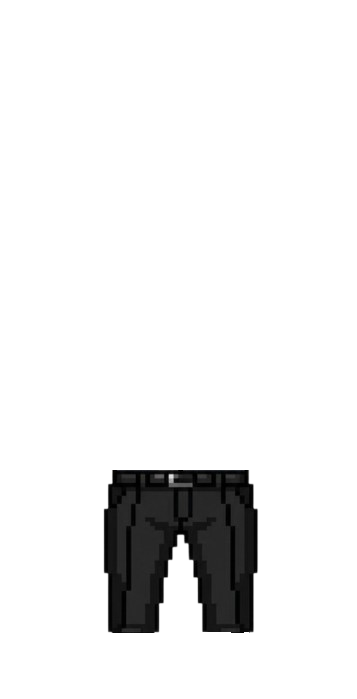
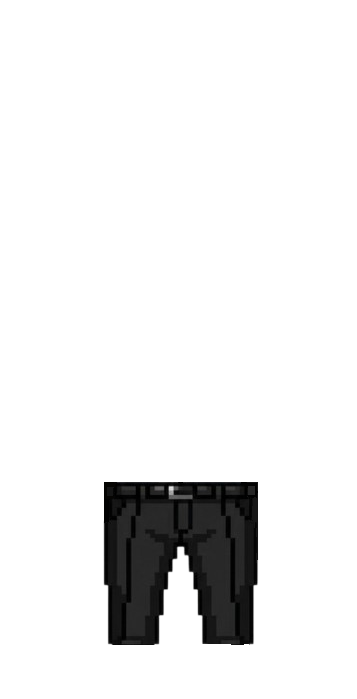
fix: 에셋 추가

diff --git a/app/frontend/src/screens/child/home/AvatarCustomScreen.jsx b/app/frontend/src/screens/child/home/AvatarCustomScreen.jsx
@@ -1,9 +1,10 @@
 import React, { useContext, useState } from 'react';
 import { View, StyleSheet, TouchableOpacity, ScrollView, Image, Dimensions, Alert } from 'react-native';
 import { AvatarContext } from '../../../components/child/avatar/AvatarContext';
-import { AVATAR_ITEMS } from '../../../components/child/avatar/AvatarAssets';
+import { AVATAR_ITEMS, AVATAR_ASSETS } from '../../../components/child/avatar/AvatarAssets';
 import ChildAvatar from '../../../components/child/avatar/ChildAvatar';
-import FacePaintingModal from '../../../components/child/modals/FacePaintingModal';
+import Pet from '../../../components/child/avatar/Pet';
+import { scale, verticalScale } from 'react-native-size-matters';
 import CustomText from '../../../components/common/CustomText';
 import api from '../../../api/axios';
 
@@ -23,9 +24,8 @@ const CATEGORIES = [
 const { width } = Dimensions.get('window');
 
 const AvatarCustomScreen = ({ navigation }) => {
-    const { equipState, updateEquip, setEquipState, facePaintPaths, setFacePaintPaths } = useContext(AvatarContext);
+    const { equipState, updateEquip, setEquipState } = useContext(AvatarContext);
     const [selectedCategory, setSelectedCategory] = useState('hair');
-    const [isFacePaintingModalVisible, setFacePaintingModalVisible] = useState(false);
     const [ownedItemIds, setOwnedItemIds] = useState({});
     const [frontendToUuidMap, setFrontendToUuidMap] = useState({});
     const [userLevel, setUserLevel] = useState(1);
@@ -162,13 +162,13 @@ const AvatarCustomScreen = ({ navigation }) => {
                     // 백엔드에 아바타 장착 옷차림 저장
                     try {
                         const equippedUUIDs = [];
-                        if (equipState.hat && frontendToUuidMap[equipState.hat]) equippedUUIDs.push(frontendToUuidMap[equipState.hat]);
-                        if (equipState.upper && frontendToUuidMap[equipState.upper]) equippedUUIDs.push(frontendToUuidMap[equipState.upper]);
-                        if (equipState.lower && frontendToUuidMap[equipState.lower]) equippedUUIDs.push(frontendToUuidMap[equipState.lower]);
+                        ['hat', 'upper', 'lower', 'shoe', 'back', 'outfit', 'pet'].forEach(cat => {
+                            if (equipState[cat] && equipState[cat] !== 'none' && frontendToUuidMap[equipState[cat]]) {
+                                equippedUUIDs.push(frontendToUuidMap[equipState[cat]]);
+                            }
+                        });
 
-                        if (equippedUUIDs.length >= 0) {
-                            await api.patch('/avatars/me/equipment', { equippedItemIds: equippedUUIDs });
-                        }
+                        await api.patch('/avatars/me/equipment', { equippedItemIds: equippedUUIDs });
                     } catch (e) { console.error('Avatar Save Error', e); }
                     navigation.goBack();
                 }}>
@@ -185,27 +185,11 @@ const AvatarCustomScreen = ({ navigation }) => {
 
                     {/* 꾸미기 전용 펫 미리보기 */}
                     {equipState.pet && equipState.pet !== 'none' && (
-                        <View style={{ position: 'absolute', right: 0, bottom: -10, width: 120, height: 120 }} pointerEvents="none">
-                            {AVATAR_ASSETS.pet[equipState.pet]?.leg && <Image source={AVATAR_ASSETS.pet[equipState.pet].leg} style={{ position: 'absolute', width: '100%', height: '100%' }} resizeMode="contain" />}
-                            {AVATAR_ASSETS.pet[equipState.pet]?.body && <Image source={AVATAR_ASSETS.pet[equipState.pet].body} style={{ position: 'absolute', width: '100%', height: '100%' }} resizeMode="contain" />}
-                            {AVATAR_ASSETS.pet[equipState.pet]?.base && <Image source={AVATAR_ASSETS.pet[equipState.pet].base} style={{ position: 'absolute', width: '100%', height: '100%' }} resizeMode="contain" />}
+                        <View style={{ position: 'absolute', right: scale(-210), bottom: verticalScale(-155) }} pointerEvents="none">
+                            <Pet petType={equipState.pet} size={scale(400)} />
                         </View>
                     )}
                 </View>
-
-                <TouchableOpacity
-                    style={styles.paintLaunchButton}
-                    onPress={() => setFacePaintingModalVisible(true)}
-                >
-                    <CustomText style={styles.paintLaunchIcon}>🎨</CustomText>
-                    <CustomText style={styles.paintLaunchText}>페이스 페인팅</CustomText>
-                </TouchableOpacity>
-                <TouchableOpacity
-                    style={styles.paintClearButton}
-                    onPress={() => setFacePaintPaths([])}
-                >
-                    <CustomText style={styles.paintLaunchText}>초기화 🗑</CustomText>
-                </TouchableOpacity>
             </View>
 
             {/* 인벤토리 영역 */}
@@ -235,15 +219,6 @@ const AvatarCustomScreen = ({ navigation }) => {
                     {renderItemGrid()}
                 </View>
             </View>
-
-            {/* 페이스 페인팅 모달 */}
-            <FacePaintingModal
-                visible={isFacePaintingModalVisible}
-                onClose={() => setFacePaintingModalVisible(false)}
-                onSave={(paths) => setFacePaintPaths(paths)}
-                initialPaths={facePaintPaths}
-                equipState={equipState}
-            />
         </View>
     );
 };

diff --git a/app/frontend/src/components/child/avatar/ChildAvatar.jsx b/app/frontend/src/components/child/avatar/ChildAvatar.jsx
@@ -74,31 +74,14 @@ const ChildAvatar = ({
 
     const renderDefaultAvatar = () => (
         <View style={[styles.canvasContainer, { width: responsiveSize, height: responsiveSize }]}>
-            {/* 1. 호흡 시 날개도 상체 따라 움직이기 (등 장식 & 장식품) */}
+            {/* 1. 호흡 시 날개도 상체 따라 움직이기 (자율 등 장식 - 바보는 제외) */}
             <View style={[styles.layer, { transform: [{ translateY: bodyOffsetY }] }]}>
-                {equipState.back !== 'none' && AVATAR_ASSETS.decoration[equipState.back] && (
+                {equipState.back !== 'none' && equipState.back !== 'babo' && AVATAR_ASSETS.decoration[equipState.back] && (
                     <Image source={AVATAR_ASSETS.decoration[equipState.back]} style={styles.layer} />
                 )}
             </View>
 
-            {/* 하체 고정 */}
-            <Image source={AVATAR_ASSETS.body.lower_base} style={styles.layer} />
-
-            {/* 하의 장착 (한벌옷이 있으면 한벌옷 하의 우선 렌더링) */}
-            {equipState.outfit && equipState.outfit !== 'none' && AVATAR_ASSETS.outfit[equipState.outfit] ? (
-                <Image source={AVATAR_ASSETS.outfit[equipState.outfit].lower} style={styles.layer} />
-            ) : (
-                equipState.lower !== 'none' && AVATAR_ASSETS.lower[equipState.lower] && (
-                    <Image source={AVATAR_ASSETS.lower[equipState.lower]} style={styles.layer} />
-                )
-            )}
-
-            {/* 신발 장착 */}
-            {equipState.shoe !== 'none' && AVATAR_ASSETS.shoe[equipState.shoe] && (
-                <Image source={AVATAR_ASSETS.shoe[equipState.shoe]} style={styles.layer} />
-            )}
-
-            {/* 3. 상체 이동 */}
+            {/* 3. 상체 이동 (상의가 하의 밑에 깔리도록 먼저 렌더링) */}
             <View style={[styles.layer, { transform: [{ translateY: bodyOffsetY }] }]}>
                 <Image source={AVATAR_ASSETS.body.upper_base} style={styles.layer} />
 
@@ -112,10 +95,32 @@ const ChildAvatar = ({
                 )}
             </View>
 
+            {/* 하체 고정 (상의 위에 렌더링되도록 뒤로 배치) */}
+            <Image source={AVATAR_ASSETS.body.lower_base} style={styles.layer} />
+
+            {/* 하의 장착 (한벌옷이 있으면 한벌옷 하의 우선 렌더링) */}
+            {equipState.outfit && equipState.outfit !== 'none' && AVATAR_ASSETS.outfit[equipState.outfit] ? (
+                <Image source={AVATAR_ASSETS.outfit[equipState.outfit].lower} style={styles.layer} />
+            ) : (
+                equipState.lower !== 'none' && AVATAR_ASSETS.lower[equipState.lower] && (
+                    <Image source={AVATAR_ASSETS.lower[equipState.lower]} style={styles.layer} />
+                )
+            )}
+
+            {/* 신발 장착 (한벌옷이 있으면 한벌옷 신발 우선 렌더링) */}
+            {equipState.outfit && equipState.outfit !== 'none' && AVATAR_ASSETS.outfit[equipState.outfit] && AVATAR_ASSETS.outfit[equipState.outfit].shoe ? (
+                <Image source={AVATAR_ASSETS.outfit[equipState.outfit].shoe} style={styles.layer} />
+            ) : (
+                equipState.shoe !== 'none' && AVATAR_ASSETS.shoe[equipState.shoe] && (
+                    <Image source={AVATAR_ASSETS.shoe[equipState.shoe]} style={styles.layer} />
+                )
+            )}
+
+
             {/* 4. 얼굴 */}
             {renderFace()}
 
-            {/* 5. 헤어 및 모자 -> 모자 장착 시 헤어 X */}
+            {/* 5. 헤어 및 모자 -> 모자 장착 시 다시 헤어 가리기 (User Request) */}
             <View style={[styles.layer, { transform: [{ translateY: faceOffsetY }] }]}>
                 {equipState.hair !== 'none' && equipState.hat === 'none' && AVATAR_ASSETS.hair[equipState.hair] && (
                     <Image source={AVATAR_ASSETS.hair[equipState.hair]} style={styles.layer} />
@@ -124,6 +129,13 @@ const ChildAvatar = ({
                     <Image source={AVATAR_ASSETS.hat[equipState.hat]} style={styles.layer} />
                 )}
             </View>
+
+            {/* 6. 바보 딱지 (상체에 바짝 붙은 가장 앞 레이어) */}
+            {equipState.back === 'babo' && AVATAR_ASSETS.decoration.babo && (
+                <View style={[styles.layer, { transform: [{ translateY: bodyOffsetY }] }]}>
+                    <Image source={AVATAR_ASSETS.decoration.babo} style={styles.layer} />
+                </View>
+            )}
         </View>
     );
 

diff --git a/app/frontend/src/screens/child/home/ChildHomeScreen.jsx b/app/frontend/src/screens/child/home/ChildHomeScreen.jsx
@@ -64,9 +64,15 @@ const ChildHomeScreen = ({ navigation }) => {
                             if (eq.category === 'HAT') frontendCat = 'hat';
                             else if (eq.category === 'TOP') frontendCat = 'upper';
                             else if (eq.category === 'BOTTOM') frontendCat = 'lower';
+                            else if (eq.category === 'SHOE') frontendCat = 'shoe';
+                            else if (eq.category === 'BACK' || eq.category === 'ACC' || eq.category === 'DECORATION') frontendCat = 'back';
+                            else if (eq.category === 'OUTFIT') frontendCat = 'outfit';
+                            else if (eq.category === 'PET') frontendCat = 'pet';
 
                             if (frontendCat) {
-                                const assetItem = AVATAR_ITEMS[frontendCat]?.find(a => a.name === dictItem.name);
+                                // back, pet, outfit 등 명칭 불일치 대응
+                                const assetList = AVATAR_ITEMS[frontendCat] || AVATAR_ITEMS.decoration || AVATAR_ITEMS.pet || [];
+                                const assetItem = assetList.find(a => a.name === dictItem.name);
                                 if (assetItem) {
                                     if (!newEquip) newEquip = { ...equipState };
                                     newEquip[frontendCat] = assetItem.id;
@@ -114,6 +120,7 @@ const ChildHomeScreen = ({ navigation }) => {
                 <ImageBackground
                     source={require('../../../assets/background.png')}
                     style={styles.contentBackground}
+                    imageStyle={{ left: -21, width: width + 30 }}
                     resizeMode="cover"
                 >
                     {/* 친구, 알림 버튼 */}
@@ -152,10 +159,10 @@ const ChildHomeScreen = ({ navigation }) => {
                         <View style={styles.avatarWrapper}>
                             <ChildAvatar equipState={equipState} size={avatarSize} />
 
-                            {/* 펫 배치 (백엔드 펫 데이터가 있을 때만 렌더링되도록 사전 준비) */}
-                            {homeData?.pet && (
-                                <View style={{ position: 'absolute', right: scale(-120), bottom: verticalScale(-115) }}>
-                                    <Pet petType={homeData.pet.type || 'shiba'} size={scale(350)} />
+                            {/* 펫 배치 */}
+                            {equipState.pet && equipState.pet !== 'none' && (
+                                <View style={{ position: 'absolute', right: scale(-150), bottom: verticalScale(-110) }}>
+                                    <Pet petType={equipState.pet} size={scale(400)} />
                                 </View>
                             )}
                         </View>
@@ -349,6 +356,7 @@ const styles = StyleSheet.create({
         width: '100%',
         alignItems: 'center',
         justifyContent: 'flex-end',
+        paddingBottom: verticalScale(15),
     },
     qrModalBackground: {
         flex: 1,

diff --git a/app/frontend/src/components/child/avatar/AvatarAssets.js b/app/frontend/src/components/child/avatar/AvatarAssets.js
@@ -148,9 +148,9 @@ export const AVATAR_ITEMS = {
     ],
     hat: [
         { id: 'hat1', name: '기본 모자', img: AVATAR_ASSETS.hat.hat1, level: 1 },
-        { id: 'farmer_hat', name: '농부 모자', img: AVATAR_ASSETS.hat.farmer, level: 4 },
-        { id: 'astronaut_hat', name: '우주인 헬멧', img: AVATAR_ASSETS.hat.astronaut, level: 5 },
-        { id: 'akku_hat', name: '아꾸 모자', img: AVATAR_ASSETS.hat.akku, level: 5 },
+        { id: 'farmer', name: '농부 모자', img: AVATAR_ASSETS.hat.farmer, level: 4 },
+        { id: 'astronaut', name: '우주인 헬멧', img: AVATAR_ASSETS.hat.astronaut, level: 5 },
+        { id: 'akku', name: '아꾸 모자', img: AVATAR_ASSETS.hat.akku, level: 5 },
         { id: 'none', name: '해제', img: null, level: 1 },
     ],
     shoe: [
@@ -161,10 +161,10 @@ export const AVATAR_ITEMS = {
         { id: 'none', name: '해제', img: null, level: 1 },
     ],
     back: [
-        { id: 'wing', name: '날개', img: AVATAR_ASSETS.decoration.wing, level: 99 },
-        { id: 'babo', name: '바보', img: AVATAR_ASSETS.decoration.babo, level: 99 },
-        { id: 'flag', name: '깃발', img: AVATAR_ASSETS.decoration.flag, level: 99 },
-        { id: 'watergun', name: '물총', img: AVATAR_ASSETS.decoration.watergun, level: 99 },
+        { id: 'wing', name: '날개', img: AVATAR_ASSETS.decoration.wing, level: 2 },
+        { id: 'babo', name: '바보', img: AVATAR_ASSETS.decoration.babo, level: 3 },
+        { id: 'flag', name: '깃발', img: AVATAR_ASSETS.decoration.flag, level: 4 },
+        { id: 'watergun', name: '물총', img: AVATAR_ASSETS.decoration.watergun, level: 5 },
         { id: 'none', name: '해제', img: null, level: 1 },
     ],
     outfit: [
@@ -174,9 +174,9 @@ export const AVATAR_ITEMS = {
         { id: 'none', name: '해제', img: null, level: 1 },
     ],
     pet: [
-        { id: 'shiba', name: '시바견', img: [AVATAR_ASSETS.pet.shiba.leg, AVATAR_ASSETS.pet.shiba.body, AVATAR_ASSETS.pet.shiba.base], level: 99 },
-        { id: 'cat', name: '고양이', img: [AVATAR_ASSETS.pet.cat.leg, AVATAR_ASSETS.pet.cat.body, AVATAR_ASSETS.pet.cat.base], level: 99 },
-        { id: 'akku', name: '아꾸', img: [AVATAR_ASSETS.pet.akku.body, AVATAR_ASSETS.pet.akku.base], level: 99 }, // 아꾸 펫은 leg 없음
+        { id: 'shiba', name: '시바견', img: [AVATAR_ASSETS.pet.shiba.leg, AVATAR_ASSETS.pet.shiba.body, AVATAR_ASSETS.pet.shiba.base], level: 2 },
+        { id: 'cat', name: '고양이', img: [AVATAR_ASSETS.pet.cat.leg, AVATAR_ASSETS.pet.cat.body, AVATAR_ASSETS.pet.cat.base], level: 3 },
+        { id: 'akku', name: '아꾸', img: [AVATAR_ASSETS.pet.akku.body, AVATAR_ASSETS.pet.akku.base], level: 4 }, // 아꾸 펫은 leg 없음
         { id: 'none', name: '해제', img: null, level: 1 },
     ]
 };

diff --git a/app/frontend/src/components/child/avatar/AvatarContext.js b/app/frontend/src/components/child/avatar/AvatarContext.js
@@ -21,10 +21,53 @@ export const AvatarProvider = ({ children }) => {
     });
 
     const updateEquip = (category, itemId) => {
-        setEquipState(prev => ({
-            ...prev,
-            [category]: itemId
-        }));
+        if (itemId === undefined) return;
+        setEquipState(prev => {
+            let nextState = { ...prev };
+
+            if (nextState[category] === itemId) {
+                // 이미 장착된 동일 아이템 클릭 시 해제 (토글)
+                if (category === 'upper') {
+                    nextState.upper = 'upper1';
+                } else if (category === 'lower') {
+                    nextState.lower = 'lower1';
+                } else if (category === 'outfit') {
+                    nextState.outfit = 'none';
+                    nextState.upper = 'upper1';
+                    nextState.lower = 'lower1';
+                } else {
+                    nextState[category] = 'none';
+                }
+            } else {
+                nextState[category] = itemId;
+
+                if (itemId !== 'none') {
+                    // 한벌옷 장착 시 상/하/신발 벗기기
+                    if (category === 'outfit') {
+                        nextState.upper = 'none';
+                        nextState.lower = 'none';
+                        nextState.shoe = 'none';
+                    }
+                    // 단품 장착 시 한벌옷 벗기기
+                    else if (['upper', 'lower', 'shoe'].includes(category)) {
+                        nextState.outfit = 'none';
+                    }
+                } else if (itemId === 'none') {
+                    // 명시적 '해제(X)' 버튼 클릭 시 알몸 방지
+                    if (category === 'upper') {
+                        nextState.upper = 'upper1';
+                    } else if (category === 'lower') {
+                        nextState.lower = 'lower1';
+                    } else if (category === 'outfit') {
+                        nextState.outfit = 'none';
+                        nextState.upper = 'upper1';
+                        nextState.lower = 'lower1';
+                        nextState.shoe = 'none';
+                    }
+                }
+            }
+            return nextState;
+        });
     };
 
     const { token, user } = useAuthStore();

diff --git a/app/frontend/src/components/child/avatar/Pet.jsx b/app/frontend/src/components/child/avatar/Pet.jsx
@@ -57,9 +57,9 @@ const Pet = ({ petType = 'shiba', size = 100 }) => {
                 </View>
             )}
 
-            {/* 2. 몸통 (프레임 1,2,3에서 1단계 아래로 이동) */}
+            {/* 2. 몸통 (프레임 1,2,3에서 1단계 아래로 이동, 단 아꾸는 바닥 고정) */}
             {assets.body && (
-                <Animated.View style={[styles.absoluteImage, { width: size, height: size, transform: [{ translateY: bodyTranslateY }] }]}>
+                <Animated.View style={[styles.absoluteImage, { width: size, height: size, transform: [{ translateY: petType === 'akku' ? 0 : bodyTranslateY }] }]}>
                     <Animated.Image
                         source={assets.body}
                         style={{ width: '100%', height: '100%', resizeMode: 'contain' }}
@@ -67,9 +67,9 @@ const Pet = ({ petType = 'shiba', size = 100 }) => {
                 </Animated.View>
             )}
 
-            {/* 3. 머리상단(base) (프레임 단위로 1단계 -> 2단계 -> 1단계 내려감) */}
+            {/* 3. 머리상단(base) (프레임 단위로 1단계 -> 2단계 -> 1단계 내려감, 아꾸는 머리만 1단계 이동) */}
             {assets.base && (
-                <Animated.View style={[styles.absoluteImage, { width: size, height: size, transform: [{ translateY: headTranslateY }] }]}>
+                <Animated.View style={[styles.absoluteImage, { width: size, height: size, transform: [{ translateY: petType === 'akku' ? bodyTranslateY : headTranslateY }] }]}>
                     <Animated.Image
                         source={assets.base}
                         style={{ width: '100%', height: '100%', resizeMode: 'contain' }}
